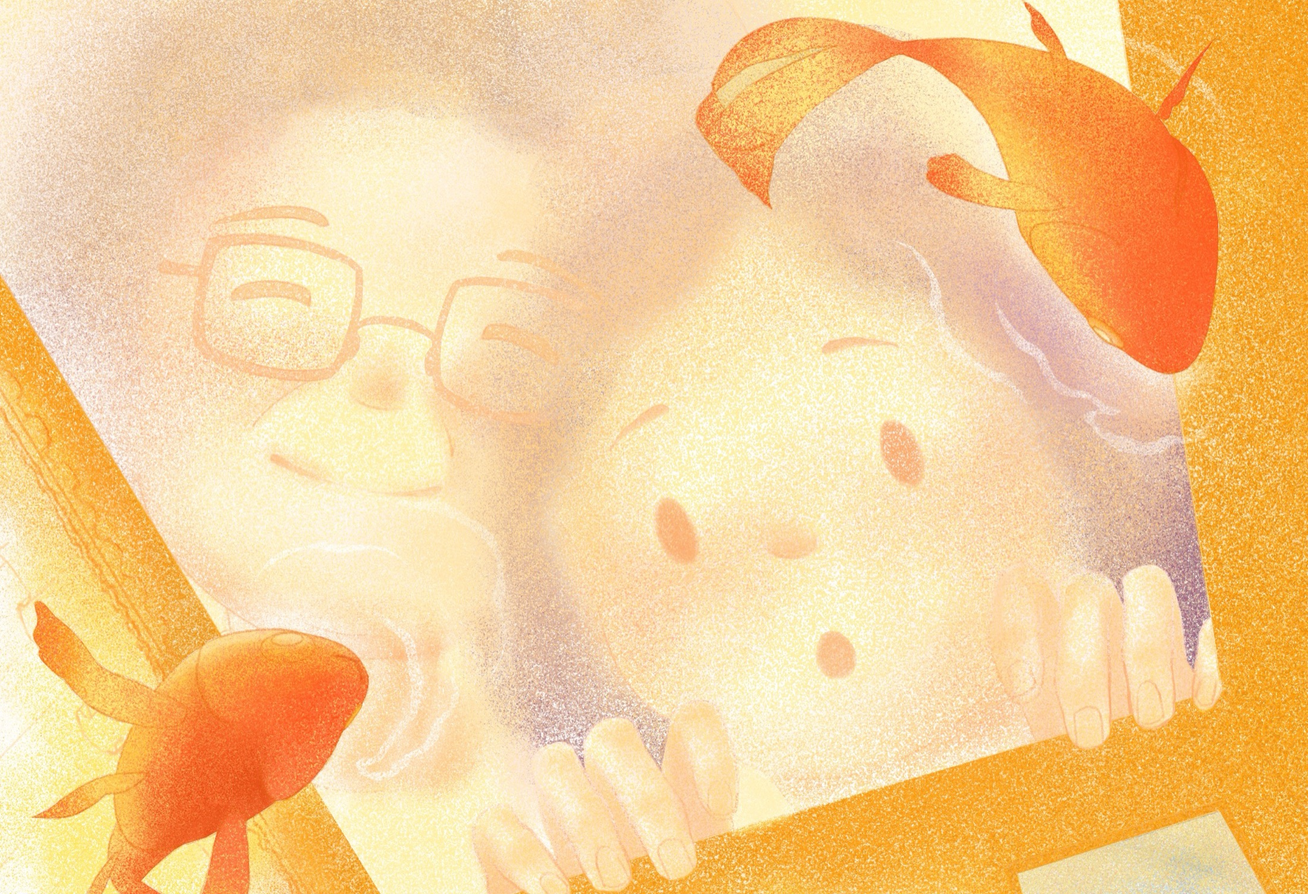
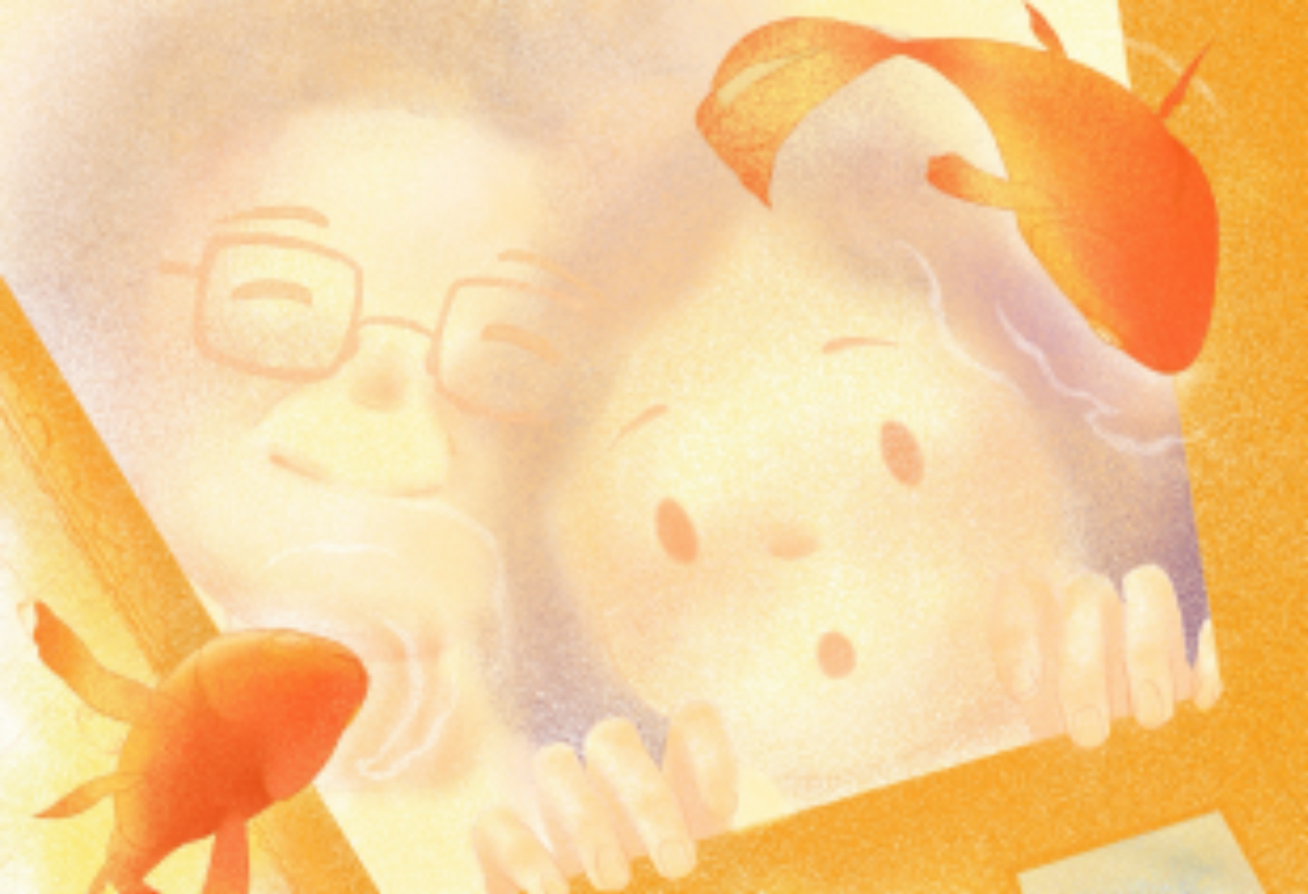
Take the grain out of the cover file, and drop the blur
Melanie: the noise got more obvious once the photo was blurred. That is
the whole loop this cover kept going round in -- a blur does not remove
speckle, it clumps it into blotches, so every round that blurred harder to
hide the grain made it read worse.

So the grain comes out of hero.jpg itself: box-averaged down by 8 and
bilinearly re-interpolated back up at full crop resolution. Mean luminance
moves by 1.2 out of 255, so the brightness is untouched, and the crop and
framing are unchanged. filter: blur() on .hero-bg is then pointless and is
removed.

It also compresses far better without the grain: 420KB at 2200px quality
90, against 1.1MB before.

diff --git a/css/style.css b/css/style.css
@@ -902,12 +902,12 @@ a.series-block:focus-visible .series-block-cue {
      original instead, so the texture is simply resolved now. */
   /* No scale-up: hero.jpg is already cropped to exactly the framing Melanie
      wants, so enlarging it here would only eat into the edges again. */
-  /* A light softening, which is what Melanie settled on with the white type
-     back. Keep it small: this painting's speckled grain does not disappear
-     under a blur, it clumps into blotches, so a heavy blur makes the cover
-     look *more* grainy rather than less. `object-position: center 60%` above
-     keeps the girl's hands when a short window has to crop something. */
-  filter: blur(3px);
+  /* No blur. The grain is taken out of hero.jpg itself now, so there is
+     nothing left for a blur to do except soften the drawing -- and blurring
+     this painting's speckle never removed it anyway, it clumped it into
+     blotches, which is exactly the "噪点在模糊后有点显眼" Melanie hit.
+     `object-position: center 60%` above keeps the girl's hands when a short
+     window has to crop something. */
 }
 
 /* The dark wash that used to sit here was only ever there to hold white text
